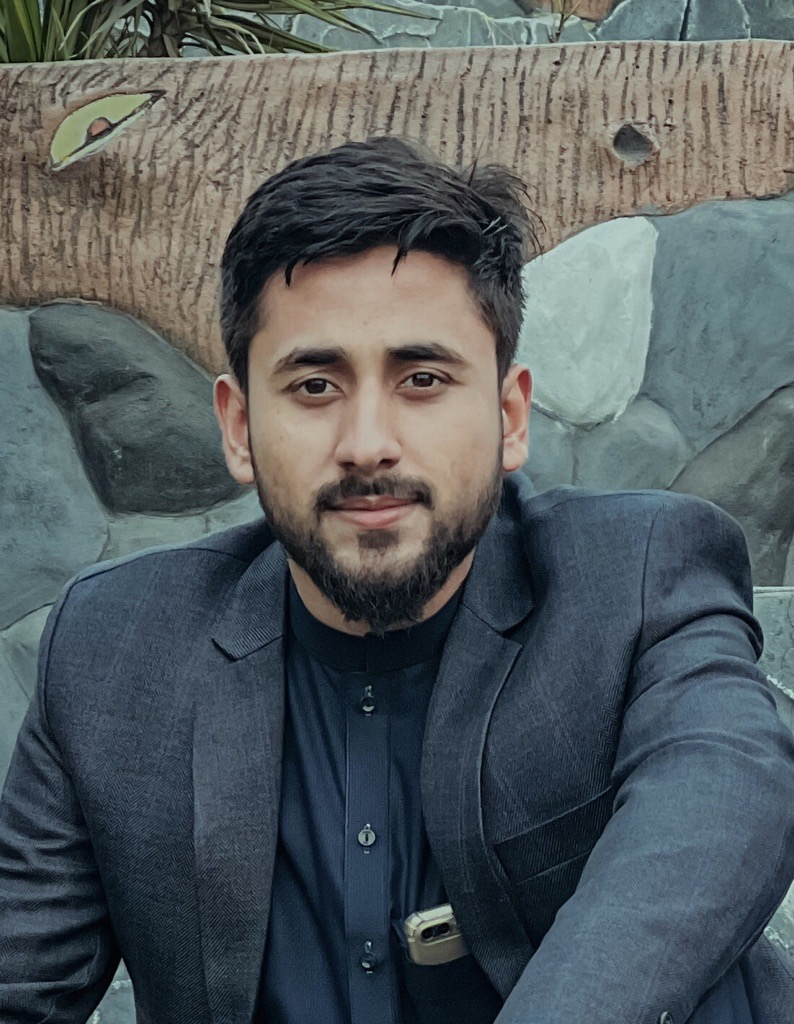
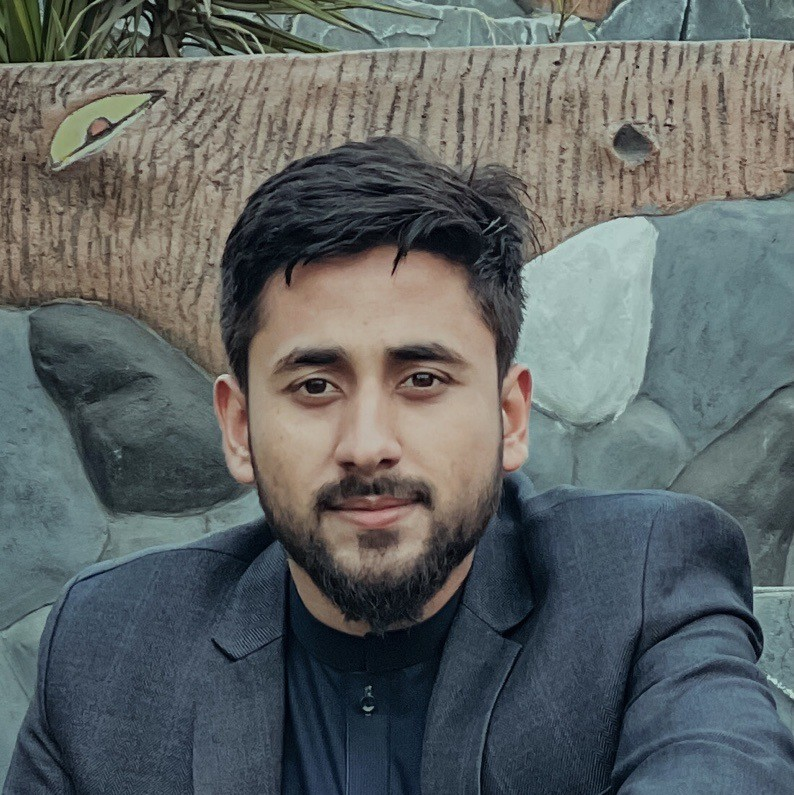
new members

diff --git a/index.html b/index.html
@@ -472,8 +472,26 @@
                             <p class="team-bio-small">Olivia Zhang is an undergraduate student at the University of Florida studying Geography and Data Science and pursuing a certificate in Geographic AI. Having grown up in coastal cities, she is passionate about leveraging geospatial data to better understand human-environment interactions in a changing climate.</p>
                         </div>
                     </div>
-                    <div class="team-card team-card-empty"></div>
-                    <div class="team-card team-card-empty"></div>
+                    <div class="team-card">
+                        <div class="team-image">
+                            <img src="img/luca_pishos.jpg" alt="Luca Pishos">
+                        </div>
+                        <div class="team-info">
+                            <h3>Luca Pishos</h3>
+                            <p class="team-role">Undergraduate Researcher</p>
+                            <p class="team-bio-small">Luca Pishos is an undergraduate researcher studying Computer Science and Mathematics in the College of Engineering. His experience includes software engineering, computer vision, computational modeling, and data analytics. In the lab, he focuses on geospatial informatics and remote sensing, using machine learning to analyze satellite imagery.</p>
+                        </div>
+                    </div>
+                    <div class="team-card">
+                        <div class="team-image">
+                            <img src="img/angelina wu.jpeg" alt="Angelina Wu">
+                        </div>
+                        <div class="team-info">
+                            <h3>Angelina Wu</h3>
+                            <p class="team-role">Undergraduate Researcher</p>
+                            <p class="team-bio-small">Angelina Wu is an undergraduate researcher studying computer science and statistics. She is experienced in software engineering, from cloud and infrastructure to full-stack, and data analytics. She is interested in using computer science to create tools with equitable and scalable benefits. In this lab, she focuses on using machine learning to extract insights from satellite imagery.</p>
+                        </div>
+                    </div>
                 </div>
             </div>
 